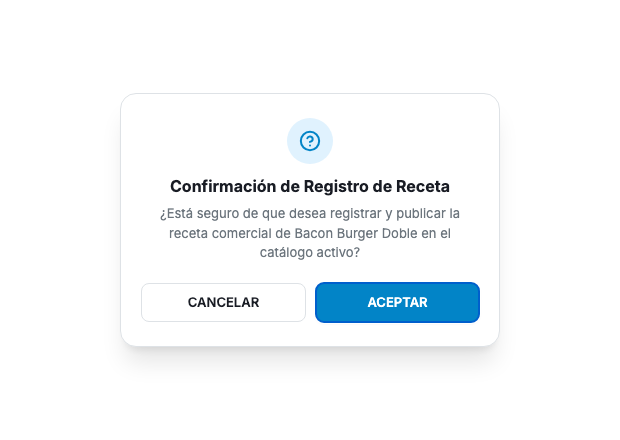
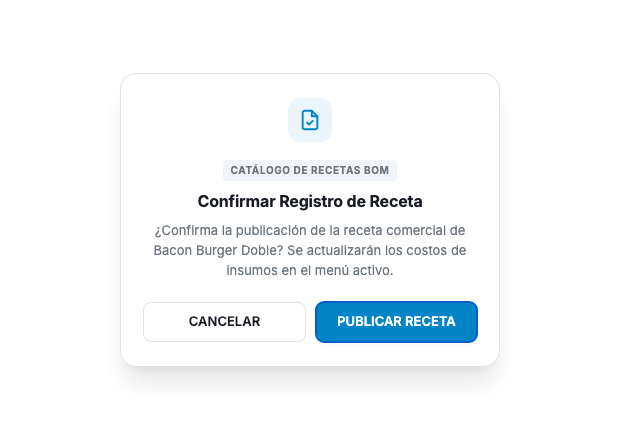
style(ui): refinar modales con iconografía contextual, pills de categoría y verbos de acción

Changed region(s): [[0.2145, 0.2364, 0.7968, 0.7977], [0.2758, 0.6795, 0.429, 0.7386]]

diff --git a/apps/web/resources/js/Components/Modal/ConfirmDialog.jsx b/apps/web/resources/js/Components/Modal/ConfirmDialog.jsx
@@ -5,11 +5,13 @@ export default function ConfirmDialog({
     title = '¿Está seguro?',
     message = '¿Confirma que desea realizar esta acción?',
     variant = 'danger', // 'danger' | 'warning' | 'info' | 'question'
+    category = '',      // Pill contextual opcional (ej. 'CATÁLOGO DE RECETAS')
     confirmText,
     cancelText = 'Cancelar',
     onConfirm,
     onCancel,
     freeze = false,
+    icon: customIcon = null,
 }) {
     const confirmBtnRef = useRef(null);
 
@@ -34,7 +36,7 @@ export default function ConfirmDialog({
 
     if (!isOpen) return null;
 
-    // Determinación de iconos y colores según variante
+    // Determinación de variantes semánticas
     const isDanger = variant === 'danger';
     const isWarning = variant === 'warning';
     const isInfo = variant === 'info' || variant === 'question';
@@ -43,21 +45,39 @@ export default function ConfirmDialog({
     const finalConfirmText = confirmText || defaultConfirmText;
 
     const iconBadge = () => {
-        if (isDanger) {
+        if (customIcon) {
             return (
                 <div style={{
-                    width: '46px',
-                    height: '46px',
-                    borderRadius: '50%',
-                    backgroundColor: '#fee2e2',
-                    color: '#dc2626',
+                    width: '44px',
+                    height: '44px',
+                    borderRadius: '12px',
+                    backgroundColor: 'var(--bg-main, #f1f5f9)',
+                    color: 'var(--text-main, #0f172a)',
                     display: 'flex',
                     alignItems: 'center',
                     justifyContent: 'center',
-                    margin: '0 auto 12px auto'
+                    margin: '0 auto 14px auto'
                 }}>
-                    <svg width="22" height="22" viewBox="0 0 24 24" fill="none" stroke="currentColor" strokeWidth="2.2" strokeLinecap="round" strokeLinejoin="round">
-                        <path d="M3 6h18m-2 0v14c0 1-1 2-2 2H7c-1 0-2-1-2-2V6m3 0V4c0-1 1-2 2-2h4c1 0 2 1 2 2v2"></path>
+                    {customIcon}
+                </div>
+            );
+        }
+
+        if (isDanger) {
+            return (
+                <div style={{
+                    width: '44px',
+                    height: '44px',
+                    borderRadius: '12px',
+                    backgroundColor: 'rgba(223, 15, 19, 0.08)',
+                    color: '#df0f13',
+                    display: 'flex',
+                    alignItems: 'center',
+                    justifyContent: 'center',
+                    margin: '0 auto 14px auto'
+                }}>
+                    <svg width="22" height="22" viewBox="0 0 24 24" fill="none" stroke="currentColor" strokeWidth="2.1" strokeLinecap="round" strokeLinejoin="round">
+                        <path d="M3 6h18m-2 0v14a2 2 0 0 1-2 2H7a2 2 0 0 1-2-2V6m3 0V4a2 2 0 0 1 2-2h4a2 2 0 0 1 2 2v2"></path>
                         <line x1="10" y1="11" x2="10" y2="17"></line>
                         <line x1="14" y1="11" x2="14" y2="17"></line>
                     </svg>
@@ -68,17 +88,17 @@ export default function ConfirmDialog({
         if (isWarning) {
             return (
                 <div style={{
-                    width: '46px',
-                    height: '46px',
-                    borderRadius: '50%',
+                    width: '44px',
+                    height: '44px',
+                    borderRadius: '12px',
                     backgroundColor: '#fef3c7',
                     color: '#d97706',
                     display: 'flex',
                     alignItems: 'center',
                     justifyContent: 'center',
-                    margin: '0 auto 12px auto'
+                    margin: '0 auto 14px auto'
                 }}>
-                    <svg width="22" height="22" viewBox="0 0 24 24" fill="none" stroke="currentColor" strokeWidth="2.2" strokeLinecap="round" strokeLinejoin="round">
+                    <svg width="22" height="22" viewBox="0 0 24 24" fill="none" stroke="currentColor" strokeWidth="2.1" strokeLinecap="round" strokeLinejoin="round">
                         <path d="m21.73 18-8-14a2 2 0 0 0-3.48 0l-8 14A2 2 0 0 0 4 21h16a2 2 0 0 0 1.73-3Z"></path>
                         <line x1="12" y1="9" x2="12" y2="13"></line>
                         <line x1="12" y1="17" x2="12.01" y2="17"></line>
@@ -87,29 +107,29 @@ export default function ConfirmDialog({
             );
         }
 
-        // Info / Question / Operación exitosa de alta
+        // Operación Transaccional / Ficha Técnica (Documento verificado en vez del cliché de '?')
         return (
             <div style={{
-                width: '46px',
-                height: '46px',
-                borderRadius: '50%',
-                backgroundColor: '#e0f2fe',
+                width: '44px',
+                height: '44px',
+                borderRadius: '12px',
+                backgroundColor: 'rgba(2, 132, 199, 0.08)',
                 color: '#0284c7',
                 display: 'flex',
                 alignItems: 'center',
                 justifyContent: 'center',
-                margin: '0 auto 12px auto'
+                margin: '0 auto 14px auto'
             }}>
-                <svg width="22" height="22" viewBox="0 0 24 24" fill="none" stroke="currentColor" strokeWidth="2.2" strokeLinecap="round" strokeLinejoin="round">
-                    <circle cx="12" cy="12" r="10"></circle>
-                    <path d="M9.09 9a3 3 0 0 1 5.83 1c0 2-3 3-3 3"></path>
-                    <line x1="12" y1="17" x2="12.01" y2="17"></line>
+                <svg width="22" height="22" viewBox="0 0 24 24" fill="none" stroke="currentColor" strokeWidth="2.1" strokeLinecap="round" strokeLinejoin="round">
+                    <path d="M14 2H6a2 2 0 0 0-2 2v16a2 2 0 0 0 2 2h12a2 2 0 0 0 2-2V8z"></path>
+                    <polyline points="14 2 14 8 20 8"></polyline>
+                    <path d="m9 15 2 2 4-4"></path>
                 </svg>
             </div>
         );
     };
 
-    const confirmBtnBg = isDanger ? '#dc2626' : isWarning ? '#d97706' : '#0284c7';
+    const confirmBtnBg = isDanger ? '#df0f13' : isWarning ? '#d97706' : '#0284c7';
 
     return (
         <div
@@ -134,7 +154,7 @@ export default function ConfirmDialog({
         >
             <style dangerouslySetInnerHTML={{ __html: `
                 @keyframes owensModalPopIn {
-                    0% { opacity: 0; transform: scale(0.95) translateY(4px); }
+                    0% { opacity: 0; transform: scale(0.96) translateY(4px); }
                     100% { opacity: 1; transform: scale(1) translateY(0); }
                 }
             `}} />
@@ -148,10 +168,10 @@ export default function ConfirmDialog({
                     color: 'var(--text-main, #0f172a)',
                     border: '1px solid var(--border-color, #e2e8f0)',
                     borderRadius: '16px',
-                    boxShadow: '0 20px 25px -5px rgba(0, 0, 0, 0.1), 0 8px 10px -6px rgba(0, 0, 0, 0.1)',
+                    boxShadow: '0 20px 25px -5px rgba(0, 0, 0, 0.1), 0 8px 10px -6px rgba(0, 0, 0, 0.06)',
                     width: '100%',
                     maxWidth: '380px',
-                    padding: '24px 20px',
+                    padding: '24px 22px',
                     textAlign: 'center',
                     animation: freeze ? 'none' : 'owensModalPopIn 0.2s cubic-bezier(0.16, 1, 0.3, 1)',
                     boxSizing: 'border-box'
@@ -159,10 +179,28 @@ export default function ConfirmDialog({
             >
                 {iconBadge()}
 
+                {category && (
+                    <div style={{
+                        display: 'inline-block',
+                        fontSize: '10px',
+                        fontWeight: 700,
+                        letterSpacing: '0.06em',
+                        textTransform: 'uppercase',
+                        color: 'var(--text-muted, #64748b)',
+                        backgroundColor: 'var(--bg-main, #f1f5f9)',
+                        padding: '3px 8px',
+                        borderRadius: '4px',
+                        marginBottom: '10px'
+                    }}>
+                        {category}
+                    </div>
+                )}
+
                 <h3 style={{
                     margin: '0 0 8px 0',
                     fontSize: '16px',
                     fontWeight: 700,
+                    letterSpacing: '-0.01em',
                     color: 'var(--text-main, #0f172a)',
                     lineHeight: 1.3
                 }}>
@@ -170,9 +208,9 @@ export default function ConfirmDialog({
                 </h3>
 
                 <p style={{
-                    margin: '0 0 20px 0',
+                    margin: '0 0 22px 0',
                     fontSize: '13px',
-                    lineHeight: 1.5,
+                    lineHeight: 1.55,
                     color: 'var(--text-muted, #64748b)'
                 }}>
                     {message}

diff --git a/apps/web/resources/js/Pages/Dev/RetroalimentacionesShowcase.jsx b/apps/web/resources/js/Pages/Dev/RetroalimentacionesShowcase.jsx
@@ -31,10 +31,11 @@ export default function RetroalimentacionesShowcase() {
     const openModalConfirm = () => {
         if (window.confirmAction) {
             window.confirmAction({
-                title: 'Confirmación de Registro de Receta',
-                message: '¿Está seguro de que desea registrar y publicar la receta comercial de Bacon Burger Doble en el catálogo activo?',
+                title: 'Confirmar Registro de Receta',
+                category: 'Catálogo de Recetas BOM',
+                message: '¿Confirma la publicación de la receta comercial de Bacon Burger Doble? Se actualizarán los costos de insumos en el menú activo.',
                 variant: 'info',
-                confirmText: 'ACEPTAR',
+                confirmText: 'PUBLICAR RECETA',
                 cancelText: 'CANCELAR'
             });
         }
@@ -44,9 +45,10 @@ export default function RetroalimentacionesShowcase() {
         if (window.confirmAction) {
             window.confirmAction({
                 title: 'Inactivar Producto del Menú',
-                message: '¿Está seguro de que desea dar de baja lógica el producto Cheese Burger Simple? Esta acción impedirá su venta en caja y web.',
+                category: 'Baja Lógica',
+                message: '¿Está seguro de que desea dar de baja Cheese Burger Simple? Esta acción impedirá su venta en mostrador y pausará su receta en cocina.',
                 variant: 'danger',
-                confirmText: 'ELIMINAR',
+                confirmText: 'INACTIVAR PRODUCTO',
                 cancelText: 'CANCELAR'
             });
         }
@@ -110,9 +112,10 @@ export default function RetroalimentacionesShowcase() {
                     <ConfirmDialog
                         isOpen={true}
                         variant="info"
-                        title="Confirmación de Registro de Receta"
-                        message="¿Está seguro de que desea registrar y publicar la receta comercial de Bacon Burger Doble en el catálogo activo?"
-                        confirmText="ACEPTAR"
+                        category="Catálogo de Recetas BOM"
+                        title="Confirmar Registro de Receta"
+                        message="¿Confirma la publicación de la receta comercial de Bacon Burger Doble? Se actualizarán los costos de insumos en el menú activo."
+                        confirmText="PUBLICAR RECETA"
                         cancelText="CANCELAR"
                         freeze={true}
                     />
@@ -121,9 +124,10 @@ export default function RetroalimentacionesShowcase() {
                     <ConfirmDialog
                         isOpen={true}
                         variant="danger"
+                        category="Baja Lógica"
                         title="Inactivar Producto del Menú"
-                        message="¿Está seguro de que desea dar de baja lógica el producto Cheese Burger Simple? Esta acción impedirá su venta en caja y web."
-                        confirmText="ELIMINAR"
+                        message="¿Está seguro de que desea dar de baja Cheese Burger Simple? Esta acción impedirá su venta en mostrador y pausará su receta en cocina."
+                        confirmText="INACTIVAR PRODUCTO"
                         cancelText="CANCELAR"
                         freeze={true}
                     />

diff --git a/apps/web/resources/js/Context/ConfirmContext.jsx b/apps/web/resources/js/Context/ConfirmContext.jsx
@@ -32,9 +32,11 @@ export const ConfirmProvider = ({ children }) => {
         title: '',
         message: '',
         variant: 'danger',
+        category: '',
         confirmText: '',
         cancelText: 'Cancelar',
         freeze: false,
+        icon: null,
         resolve: null
     });
 
@@ -43,14 +45,16 @@ export const ConfirmProvider = ({ children }) => {
             // Normalización de opciones (compatible con SweetAlert y nativo)
             const title = options.title || (options.text ? '' : '¿Está seguro?');
             const message = options.message || options.text || '¿Confirma que desea realizar esta acción?';
-            const icon = options.icon || options.variant || 'danger';
+            const iconVariant = options.iconVariant || options.icon || options.variant || 'danger';
             
             // Mapeo de variantes
             let variant = 'danger';
-            if (icon === 'warning') variant = 'warning';
-            else if (icon === 'question' || icon === 'info') variant = 'info';
-            else if (icon === 'danger' || icon === 'error') variant = 'danger';
+            if (iconVariant === 'warning') variant = 'warning';
+            else if (iconVariant === 'question' || iconVariant === 'info') variant = 'info';
+            else if (iconVariant === 'danger' || iconVariant === 'error') variant = 'danger';
 
+            const category = options.category || '';
+            const customIcon = (typeof options.icon === 'object' && React.isValidElement(options.icon)) ? options.icon : null;
             const confirmText = options.confirmButtonText || options.confirmText;
             const cancelText = options.cancelButtonText || options.cancelText || 'Cancelar';
             const freeze = options.freeze || options.backdrop === false;
@@ -60,9 +64,11 @@ export const ConfirmProvider = ({ children }) => {
                 title,
                 message,
                 variant,
+                category,
                 confirmText,
                 cancelText,
                 freeze,
+                icon: customIcon,
                 resolve
             });
         });
@@ -101,9 +107,11 @@ export const ConfirmProvider = ({ children }) => {
                     title={dialogState.title}
                     message={dialogState.message}
                     variant={dialogState.variant}
+                    category={dialogState.category}
                     confirmText={dialogState.confirmText}
                     cancelText={dialogState.cancelText}
                     freeze={dialogState.freeze}
+                    icon={dialogState.icon}
                     onConfirm={handleConfirm}
                     onCancel={handleCancel}
                 />,
